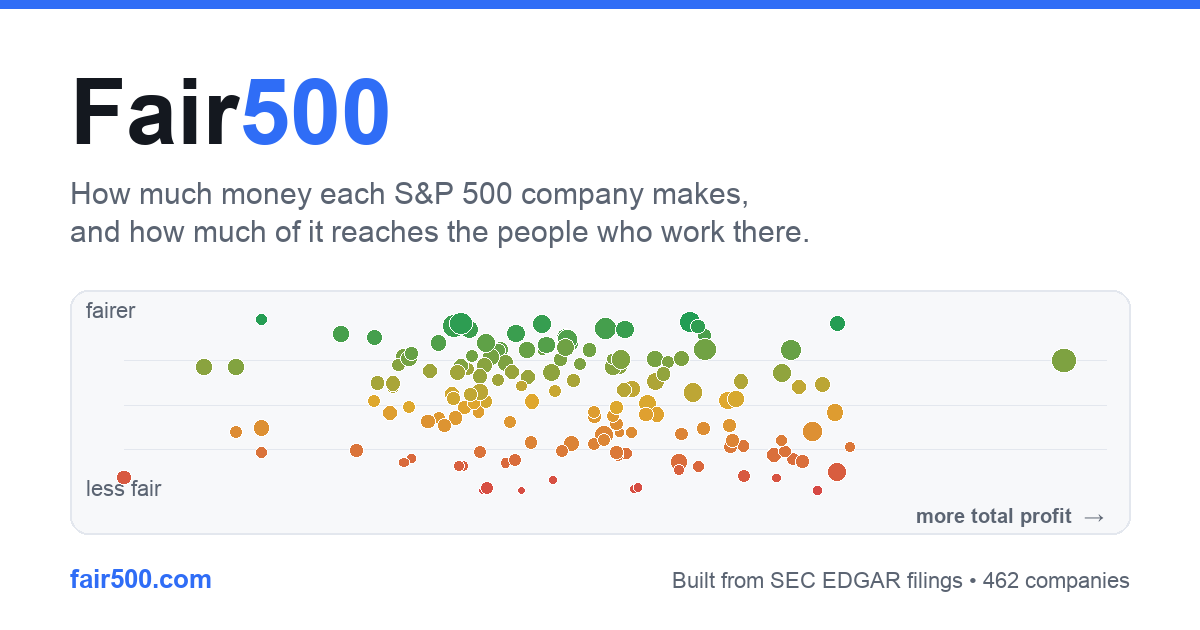
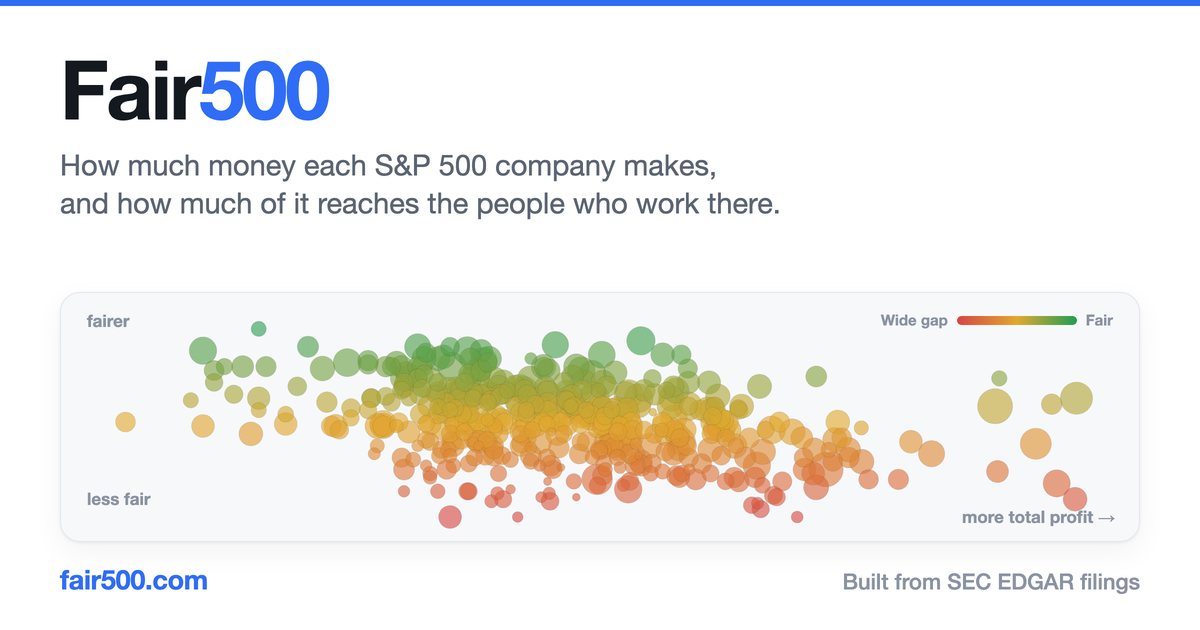
Redesign link-preview image with real data, drop the company count
Regenerate og-image.png from live web_data.json so the scatterplot shows
the actual companies (fairness on Y, log profit on X, coloured by combined
score, sized by median pay) instead of placeholder bubbles, and add a
"wide gap -> fair" colour legend. The footer no longer prints a company
count ("Built from SEC EDGAR filings" only), so the card never goes stale
as companies are added. Adds pipeline/gen_og_image.py to regenerate it.

diff --git a/pipeline/gen_og_image.py b/pipeline/gen_og_image.py
@@ -1,0 +1,133 @@
+#!/usr/bin/env python3
+"""Regenerate the social link-preview image (og-image.png, 1200x630).
+
+The card plots the REAL site data (profitable companies, positioned exactly
+as the live chart scores them: fairness on Y, log profit on X, coloured by
+the combined fairness score, sized by median pay) plus the wordmark, a
+"wide gap -> fair" legend, and the footer. It deliberately shows NO company
+count, so it never needs updating as companies are added.
+
+Run from the repo root:  python3 pipeline/gen_og_image.py
+Requires a headless Chrome/Chromium for the HTML->PNG render (falls back to
+writing og.html with instructions if none is found). Needs Pillow.
+"""
+import json, math, os, subprocess, tempfile, shutil
+
+HERE = os.path.dirname(os.path.abspath(__file__))
+ROOT = os.path.dirname(HERE)
+
+
+def pct(items, key, higher_good):
+    vals = sorted(((r[key], r) for r in items if r.get(key) is not None), key=lambda x: x[0])
+    n = len(vals)
+    out = {}
+    for rank, (v, r) in enumerate(vals):
+        p = rank / (n - 1) * 100 if n > 1 else 100
+        out[r["t"]] = round(p if higher_good else 100 - p)
+    return out
+
+
+def score_color(s):
+    c1, c2, c3 = (214, 69, 69), (224, 169, 46), (31, 157, 85)
+    t = s / 100
+    a, b, k = (c1, c2, t * 2) if t < 0.5 else (c2, c3, (t - 0.5) * 2)
+    return "rgb(%d,%d,%d)" % tuple(round(a[j] + (b[j] - a[j]) * k) for j in range(3))
+
+
+def build_html():
+    rows = json.load(open(os.path.join(ROOT, "data", "web_data.json")))
+    for r in rows:
+        p, emp, med = r.get("p"), r.get("emp"), r.get("med")
+        r["ppe"] = (p * 1e9 / emp) if (p and emp) else None
+        r["share"] = (med / r["ppe"]) if (med and r["ppe"] and not r.get("loss")) else None
+    sGap = pct(rows, "r", False)
+    sVal = pct([r for r in rows if r["share"] is not None], "share", True)
+    for r in rows:
+        g, v = sGap.get(r["t"]), sVal.get(r["t"])
+        r["score"] = round((g + v) / 2) if (g is not None and v is not None) else \
+            (g if r.get("loss") and g is not None else (g if g is not None else v))
+
+    pts = [r for r in rows if r.get("p", 0) and r["p"] > 0 and r.get("score") is not None]
+    ps = [r["p"] for r in pts]
+    minP, maxP = min(ps) * 0.8, max(ps) * 1.25
+    meds = [r["med"] for r in pts if r.get("med")]
+    minMed, maxMed = min(meds), max(meds)
+    CX0, CX1, CY0, CY1 = 96, 1104, 322, 520
+
+    def xlog(v): return CX0 + (math.log(v) - math.log(minP)) / (math.log(maxP) - math.log(minP)) * (CX1 - CX0)
+    def yscore(s): return CY1 - (s / 100) * (CY1 - CY0)
+    def rad(m): return 4 + 15 * math.sqrt(max(0, (m - minMed) / (maxMed - minMed))) if m else 4
+
+    pts.sort(key=lambda r: -(r.get("med") or 0))
+    circles = "\n".join(
+        f'<circle cx="{xlog(r["p"]):.1f}" cy="{yscore(r["score"]):.1f}" r="{rad(r.get("med")):.1f}" '
+        f'fill="{score_color(r["score"])}" fill-opacity="0.62" stroke="rgba(20,24,31,.10)" stroke-width="0.6"/>'
+        for r in pts)
+
+    return f'''<!doctype html><html><head><meta charset="utf-8"><style>
+*{{margin:0;padding:0;box-sizing:border-box}}
+html,body{{width:1200px;height:630px}}
+body{{font-family:"Helvetica Neue",Helvetica,Arial,sans-serif;background:#fff;color:#14181f;position:relative;overflow:hidden}}
+.topbar{{position:absolute;top:0;left:0;right:0;height:6px;background:#2f6df6}}
+.wrap{{position:absolute;inset:0;padding:52px 60px 40px}}
+h1{{font-size:82px;font-weight:800;letter-spacing:-.03em;line-height:.9}}
+h1 span{{color:#2f6df6}}
+.sub{{margin-top:20px;font-size:29px;line-height:1.32;color:#5b6472;max-width:1000px}}
+.card{{position:absolute;left:60px;right:60px;top:292px;height:250px;background:#f7f8fa;border:1px solid #e3e7ee;border-radius:20px;box-shadow:0 1px 3px rgba(20,24,31,.06),0 10px 30px rgba(20,24,31,.05)}}
+.axlbl{{fill:#8a93a2;font-size:17px;font-weight:600}}
+.legend{{position:absolute;right:26px;top:18px;display:flex;align-items:center;gap:9px;font-size:15px;color:#8a93a2;font-weight:600}}
+.grad{{width:120px;height:9px;border-radius:5px;background:linear-gradient(90deg,#d64545,#e0a92e,#1f9d55)}}
+.foot{{position:absolute;left:60px;right:60px;bottom:34px;display:flex;justify-content:space-between;align-items:baseline}}
+.foot .site{{color:#2f6df6;font-size:27px;font-weight:800;letter-spacing:-.01em}}
+.foot .src{{color:#8a93a2;font-size:22px;font-weight:500}}
+</style></head><body>
+<div class="topbar"></div>
+<div class="wrap"><h1>Fair<span>500</span></h1>
+  <div class="sub">How much money each S&amp;P&nbsp;500 company makes,<br>and how much of it reaches the people who work there.</div></div>
+<div class="card">
+  <div class="legend"><span>Wide gap</span><span class="grad"></span><span>Fair</span></div>
+  <svg viewBox="0 0 1080 250" width="1080" height="250" style="position:absolute;left:0;top:0">
+    <text class="axlbl" x="26" y="34">fairer</text>
+    <text class="axlbl" x="26" y="212">less fair</text>
+    <text class="axlbl" x="1054" y="230" text-anchor="end">more total profit  &#8594;</text></svg>
+  <svg viewBox="0 0 1200 630" width="1200" height="630" style="position:absolute;left:-60px;top:-292px">{circles}</svg>
+</div>
+<div class="foot"><span class="site">fair500.com</span><span class="src">Built from SEC EDGAR filings</span></div>
+</body></html>'''
+
+
+def find_chrome():
+    for c in ["/Applications/Google Chrome.app/Contents/MacOS/Google Chrome",
+              "/Applications/Chromium.app/Contents/MacOS/Chromium",
+              shutil.which("google-chrome"), shutil.which("chromium"), shutil.which("chromium-browser")]:
+        if c and os.path.exists(c):
+            return c
+    return None
+
+
+def main():
+    html = build_html()
+    tmp = tempfile.mkdtemp()
+    htmlpath = os.path.join(tmp, "og.html")
+    open(htmlpath, "w").write(html)
+    chrome = find_chrome()
+    if not chrome:
+        dest = os.path.join(ROOT, "og.html")
+        shutil.copy(htmlpath, dest)
+        print(f"No headless Chrome found. Wrote {dest}; open it and export a 1200x630 PNG to og-image.png.")
+        return
+    raw = os.path.join(tmp, "og_2x.png")
+    subprocess.run([chrome, "--headless", "--disable-gpu", "--hide-scrollbars",
+                    "--force-device-scale-factor=2", "--window-size=1200,630",
+                    "--default-background-color=FFFFFFFF", f"--screenshot={raw}",
+                    f"file://{htmlpath}"], check=True,
+                   stdout=subprocess.DEVNULL, stderr=subprocess.DEVNULL)
+    from PIL import Image
+    im = Image.open(raw).convert("RGB").resize((1200, 630), Image.LANCZOS)
+    out = os.path.join(ROOT, "og-image.png")
+    im.save(out, optimize=True)
+    print(f"Wrote {out} ({os.path.getsize(out)} bytes) from live web_data.json.")
+
+
+if __name__ == "__main__":
+    main()